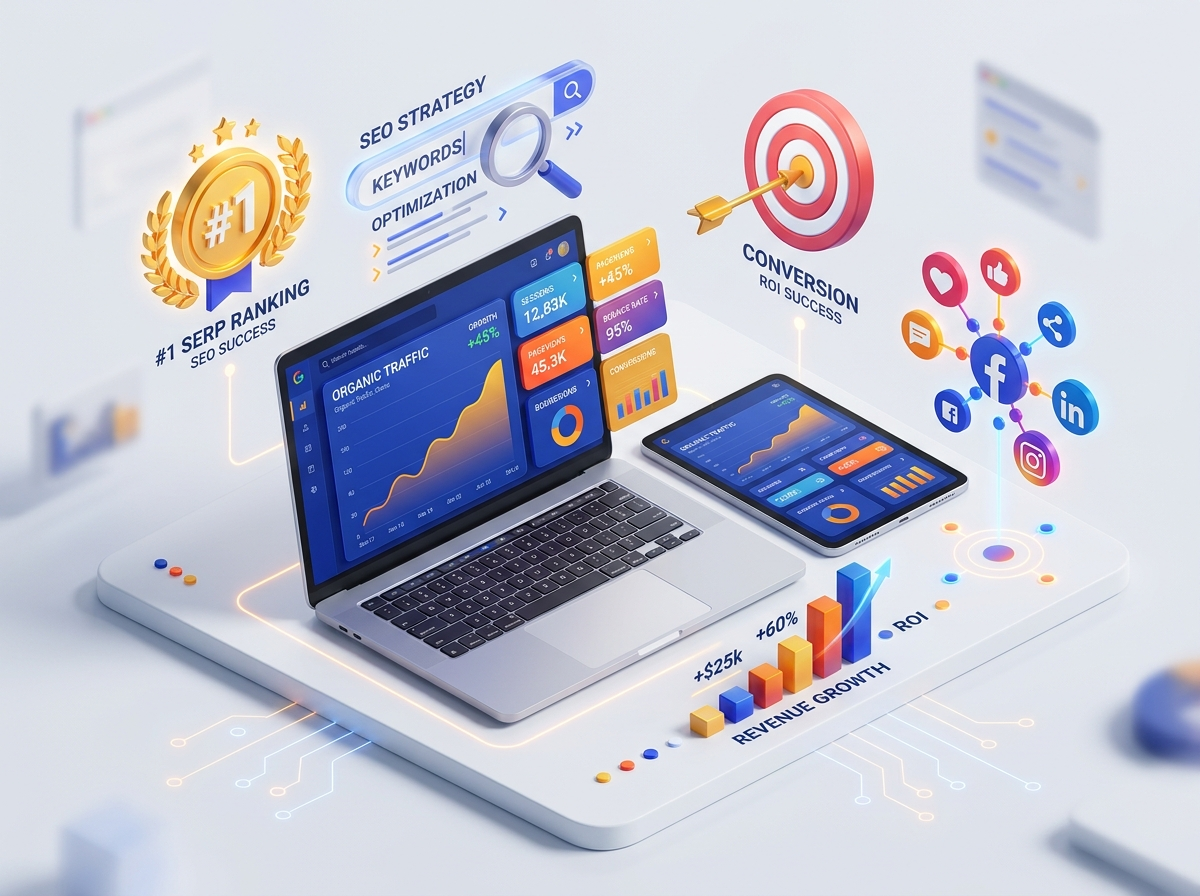
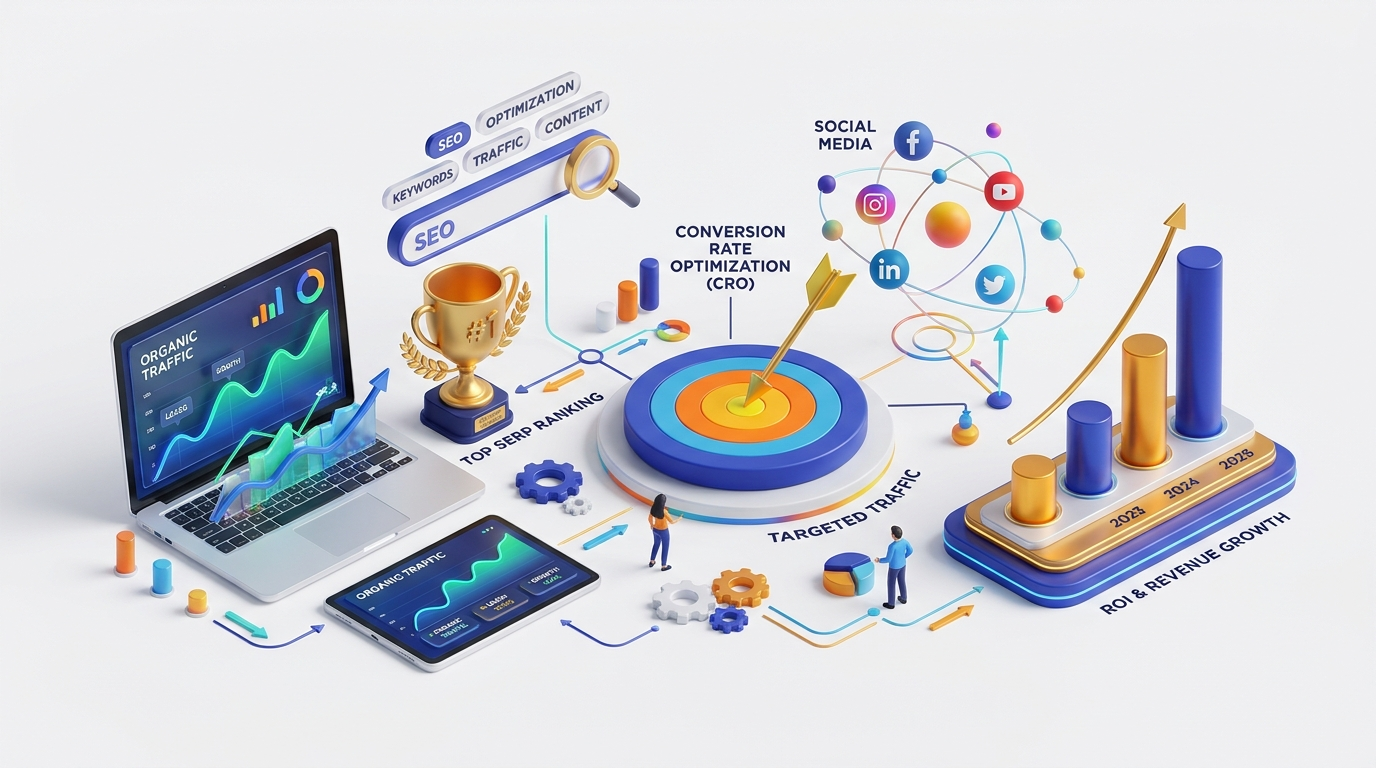
Update IT service illustrations to widescreen 16:9 landscape format

diff --git a/client/src/pages/public/ServiceDetailPage.jsx b/client/src/pages/public/ServiceDetailPage.jsx
@@ -175,10 +175,10 @@ export const ServiceDetailPage = () => {
       <section className="bg-gradient-to-b from-[#E0F2FE]/90 via-[#F0F8FF] to-[#E6F2FC] text-slate-900 py-12 sm:py-16 border-b border-sky-200/80 relative overflow-hidden">
         <div className="absolute top-0 right-10 w-96 h-96 bg-sky-400/20 rounded-full blur-3xl pointer-events-none" />
         <div className="max-w-7xl mx-auto px-4 sm:px-6 lg:px-8 relative z-10">
-          <div className="grid grid-cols-1 lg:grid-cols-12 gap-8 lg:gap-12 items-center">
+          <div className="grid grid-cols-1 lg:grid-cols-12 gap-8 lg:gap-10 items-center">
             
             {/* Left: Service Information & Metadata */}
-            <div className="lg:col-span-7 space-y-4">
+            <div className="lg:col-span-6 space-y-4">
               <div className="flex items-center space-x-2 text-xs text-slate-500">
                 <Link to="/" className="hover:text-royal-600">
                   Home
@@ -225,20 +225,20 @@ export const ServiceDetailPage = () => {
               </div>
             </div>
 
-            {/* Right: Bespoke 3D Tech Isometric Illustration Showcase Card */}
-            <div className="lg:col-span-5">
+            {/* Right: Bespoke 16:9 Widescreen Landscape 3D Tech Illustration Showcase Card */}
+            <div className="lg:col-span-6">
               <div className="bg-white rounded-3xl p-3 sm:p-4 shadow-xl border-2 border-sky-200 hover:border-sky-300 transition-all duration-300 group relative">
                 {/* Visual Label */}
-                <div className="flex items-center justify-between pb-2 px-1 text-[11px] font-mono text-slate-500 border-b border-sky-100 mb-3">
+                <div className="flex items-center justify-between pb-2 px-1 text-[11px] font-mono text-slate-500 border-b border-sky-100 mb-2.5">
                   <span className="font-bold text-brand-blue flex items-center">
                     <span className="w-2 h-2 rounded-full bg-brand-blue animate-pulse mr-1.5" />
-                    Architecture Showcase
+                    16:9 Widescreen Architecture Showcase
                   </span>
                   <span className="text-slate-400 font-semibold">Namah Siddham IT</span>
                 </div>
 
-                {/* 3D Illustration Image */}
-                <div className="relative overflow-hidden rounded-2xl bg-sky-50 aspect-[4/3] flex items-center justify-center">
+                {/* 16:9 Landscape 3D Illustration Image */}
+                <div className="relative overflow-hidden rounded-2xl bg-sky-50 aspect-[16/9] flex items-center justify-center">
                   <img
                     src={serviceImageMap[service?.slug] || serviceImageMap[slug] || service?.coverImage || `/assets/services/${service?.slug || slug}.jpg`}
                     alt={`${service.title} Architecture Showcase`}
@@ -257,7 +257,7 @@ export const ServiceDetailPage = () => {
                       {service.title}
                     </span>
                     <span className="text-[10px] font-mono font-semibold text-brand-blue uppercase shrink-0 ml-2">
-                      Live Spec
+                      16:9 Landscape
                     </span>
                   </div>
                 </div>

diff --git a/client/src/pages/public/ServicesPage.jsx b/client/src/pages/public/ServicesPage.jsx
@@ -91,10 +91,10 @@ export const ServicesPage = () => {
                 className="shiny-card bg-white rounded-3xl p-6 sm:p-7 border-2 border-sky-100 hover:border-sky-300 shadow-md hover:shadow-xl hover:shadow-sky-500/10 transition-all flex flex-col justify-between space-y-6 group"
               >
                 <div className="space-y-5">
-                  {/* Service 3D Isometric Illustration */}
+                  {/* Service 3D Isometric Landscape Illustration */}
                   <Link
                     to={`/services/${service.slug}`}
-                    className="block relative overflow-hidden rounded-2xl bg-sky-50 aspect-[16/10] border border-sky-100 shadow-xs group-hover:border-sky-300 transition-all"
+                    className="block relative overflow-hidden rounded-2xl bg-sky-50 aspect-[16/9] border border-sky-100 shadow-xs group-hover:border-sky-300 transition-all"
                   >
                     <img
                       src={serviceImageMap[service?.slug] || service?.coverImage || `/assets/services/${service?.slug}.jpg`}
